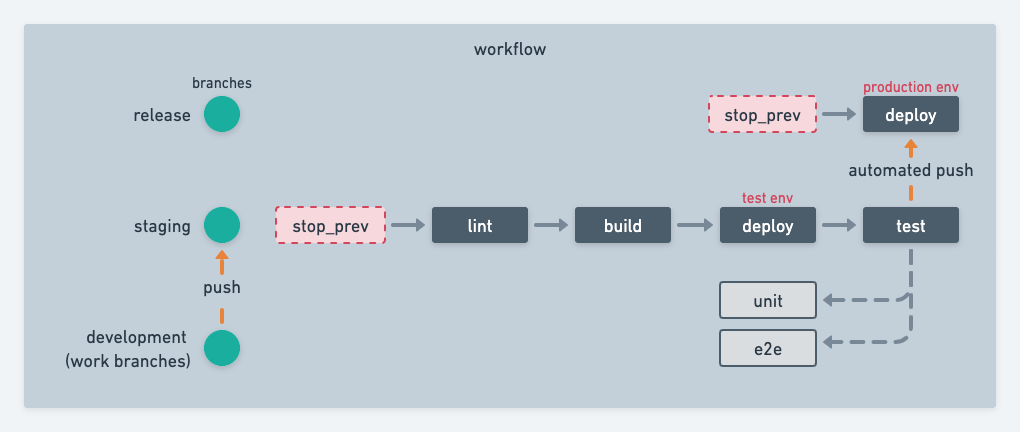
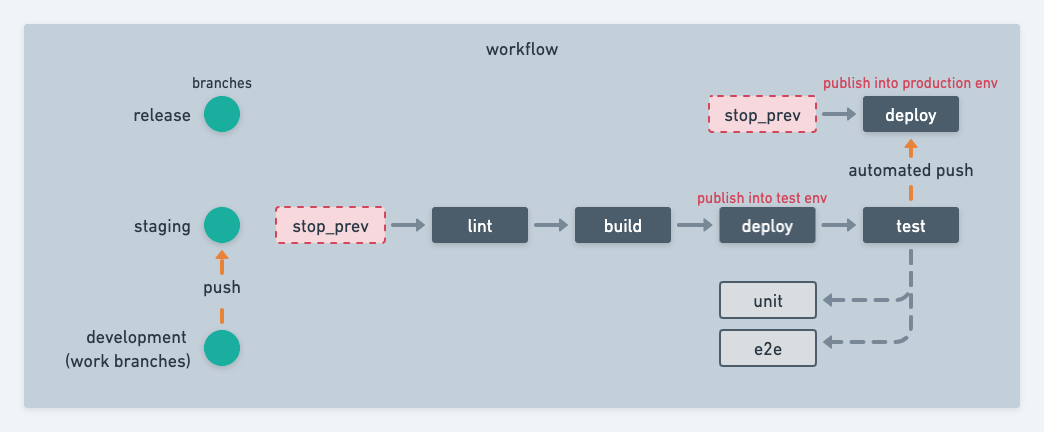
feat: add publish job into integration workflow

diff --git a/README.md b/README.md
@@ -1,5 +1,7 @@
 # React template with CI
 
+[![Continuous Integration](https://github.com/emeraldigital/react-template/actions/workflows/integration.yml/badge.svg?branch=staging)](https://github.com/emeraldigital/react-template/actions/workflows/integration.yml)
+
 This project uses [create-react-app](https://create-react-app.dev/) as base to create a basic (but powerfull) CI/CD pipeline blank project with [github actions](https://docs.github.com/es/actions).
 
 ## Workflow
